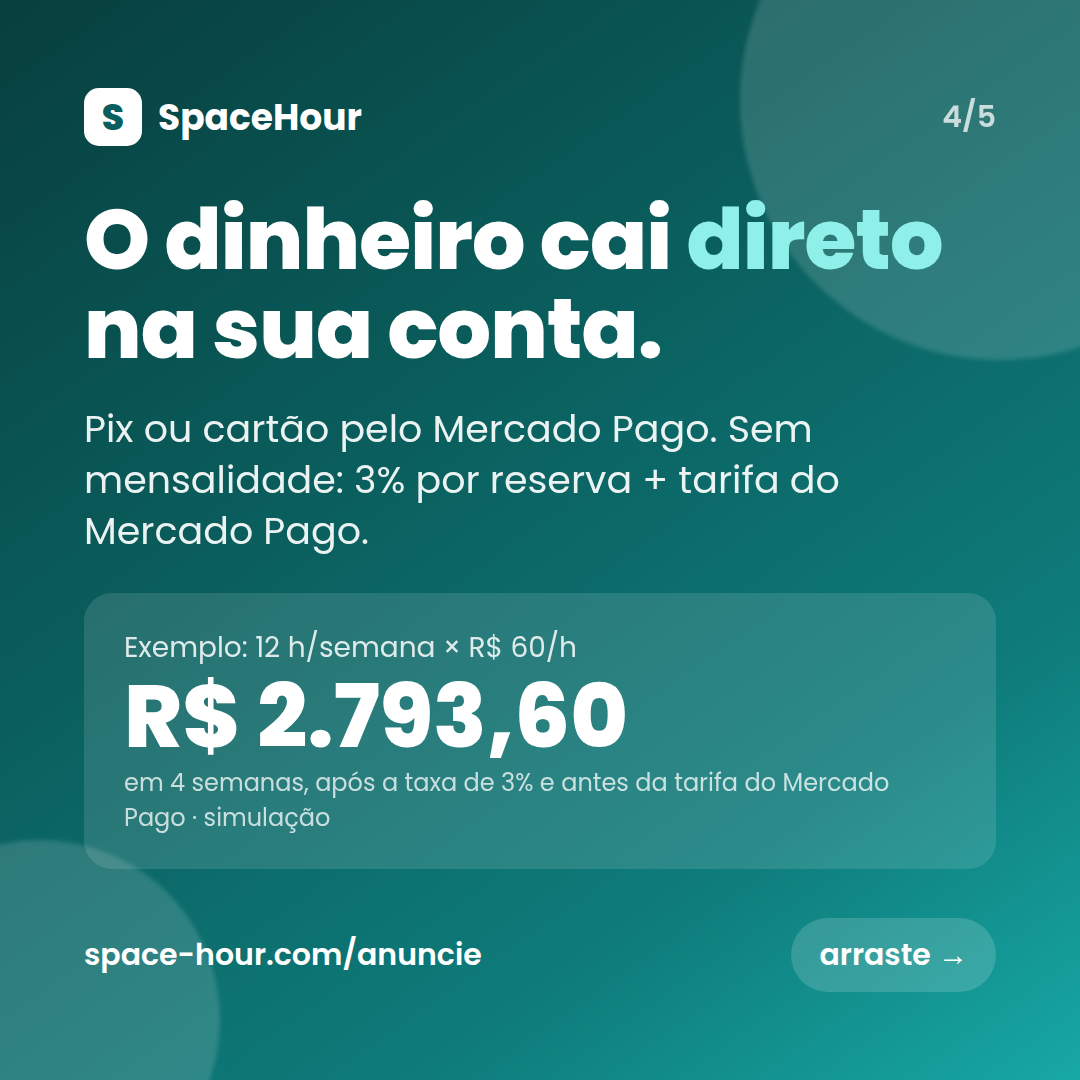
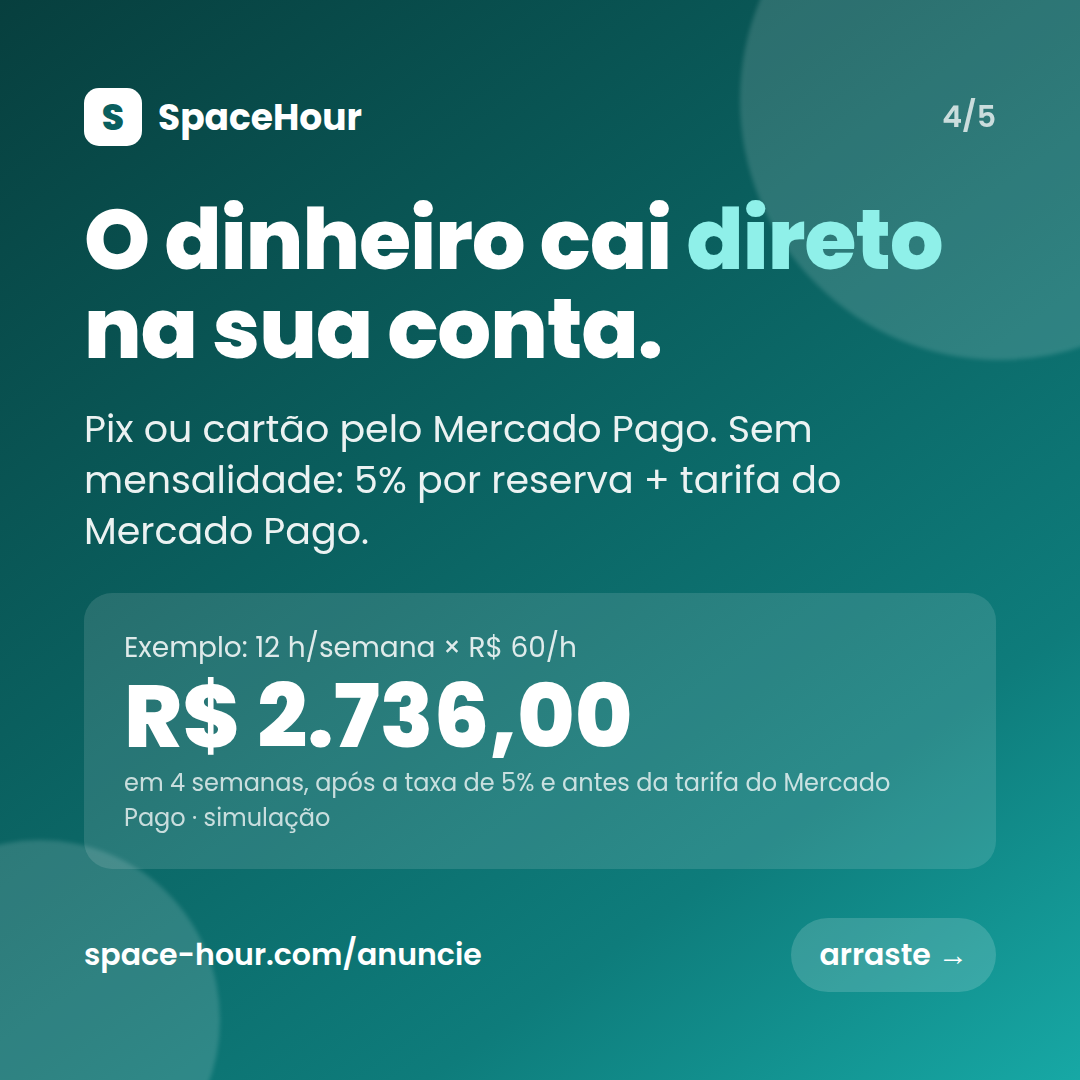
SpaceHour: comissão de 20% (15% locatário + 5% anfitrião)
- FEES: taxa de serviço do locatário 12% → 15%; do anfitrião 3% → 5%
- Termos, Pagamentos e Obrigações do Anfitrião nos 11 idiomas (inclui o
  exemplo numérico recalculado); RULES_VERSION 2026-09-27
- Textos do painel, card 4 e plano da campanha

Claude-Session: https://claude.ai/code/session_01W13E8YvgSDpfSXKLeaFiKX

Changed region(s): [[0.3361, 0.6417, 0.825, 0.7333], [0.3361, 0.4278, 0.7639, 0.4583]]

diff --git a/espacos/shared/rules.ts b/espacos/shared/rules.ts
@@ -7,7 +7,7 @@ import type {
 } from './types.js';
 import { getCountry } from './countries.js';
 
-export const RULES_VERSION = '2026-09-24';
+export const RULES_VERSION = '2026-09-27';
 
 // ───────────── Limites anti-locação de longo prazo ─────────────
 export const BOOKING_LIMITS = {
@@ -30,8 +30,8 @@ export const BOOKING_LIMITS = {
 
 // ───────────── Taxas da plataforma ─────────────
 export const FEES = {
-  guestServiceFeeRate: 0.12,  // taxa de serviço paga pelo locatário
-  hostServiceFeeRate: 0.03,   // taxa de serviço descontada do repasse ao anfitrião
+  guestServiceFeeRate: 0.15,  // taxa de serviço paga pelo locatário
+  hostServiceFeeRate: 0.05,   // taxa de serviço descontada do repasse ao anfitrião
   payoutDelayHours: 24,       // repasse ao anfitrião 24 h após o início da (primeira) ocorrência
   depositReleaseHours: 72,    // caução liberada 72 h após o check-out se não houver ocorrência
   maxCleaningFeeRate: 0.30,   // taxa de limpeza limitada a 30% do valor base

diff --git a/espacos/web/src/i18n/locales/hi.ts b/espacos/web/src/i18n/locales/hi.ts
@@ -416,7 +416,7 @@ const hi: Dict = {
   'host.inactive': 'रोका गया',
   'host.noListings': 'आपने अभी तक कोई जगह सूचीबद्ध नहीं की है।',
   'host.noEarnings': 'अभी तक कोई पूर्ण भुगतान नहीं हुआ है।',
-  'host.earningsHelp': 'भुगतान प्रत्येक बुकिंग शुरू होने के 24 घंटे बाद, 3% सेवा शुल्क काटकर जारी किया जाता है।',
+  'host.earningsHelp': 'भुगतान प्रत्येक बुकिंग शुरू होने के 24 घंटे बाद, 5% सेवा शुल्क काटकर जारी किया जाता है।',
   'host.loginFirst': 'अपनी जगह सूचीबद्ध करने के लिए लॉग इन करें या खाता बनाएँ।',
 
   // लिस्टिंग एडिटर

diff --git a/espacos/server/test/rules.test.ts b/espacos/server/test/rules.test.ts
@@ -19,14 +19,14 @@ test('fuso horário: São Paulo UTC-3', () => {
   assert.equal(zonedToUtc('2026-03-10', '09:00', tz).toISOString(), '2026-03-10T12:00:00.000Z');
 });
 
-test('preço: base + limpeza + taxa de serviço 12% + ISS 5% sobre a taxa', () => {
+test('preço: base + limpeza + taxa de serviço 15% + ISS 5% sobre a taxa', () => {
   const p = computePrice(listing, [{ date: d(10), start: '09:00', end: '11:00' }]);
   assert.equal(p.baseAmount, 200);
   assert.equal(p.cleaningFee, 20);
-  assert.equal(p.guestServiceFee, 26.4);
-  assert.equal(p.taxOnServiceFee, 1.32);
-  assert.equal(p.total, 247.72);
-  assert.equal(p.hostPayout, 213.4);
+  assert.equal(p.guestServiceFee, 33);
+  assert.equal(p.taxOnServiceFee, 1.65);
+  assert.equal(p.total, 254.65);
+  assert.equal(p.hostPayout, 209);
 });
 
 test('limites: sem pernoite, máx 12 h, granularidade 30 min', () => {

diff --git a/espacos/web/src/i18n/locales/ja.ts b/espacos/web/src/i18n/locales/ja.ts
@@ -416,7 +416,7 @@ const ja: Dict = {
   'host.inactive': '一時停止中',
   'host.noListings': 'まだスペースを掲載していません。',
   'host.noEarnings': 'まだ入金が完了した実績はありません。',
-  'host.earningsHelp': '入金は、各予約の開始から24時間後に、サービス手数料3%を差し引いた金額でお支払いされます。',
+  'host.earningsHelp': '入金は、各予約の開始から24時間後に、サービス手数料5%を差し引いた金額でお支払いされます。',
   'host.loginFirst': 'スペースを掲載するには、ログインまたはアカウントを作成してください。',
 
   // 掲載情報エディター

diff --git a/espacos/web/src/i18n/locales/ar.ts b/espacos/web/src/i18n/locales/ar.ts
@@ -416,7 +416,7 @@ const ar: Dict = {
   'host.inactive': 'متوقف مؤقتًا',
   'host.noListings': 'لم تُدرج أي مساحات بعد.',
   'host.noEarnings': 'لا توجد دفعات مكتملة بعد.',
-  'host.earningsHelp': 'تُصرف الدفعات بعد 24 ساعة من بدء كل حجز، بعد خصم رسوم الخدمة البالغة 3%.',
+  'host.earningsHelp': 'تُصرف الدفعات بعد 24 ساعة من بدء كل حجز، بعد خصم رسوم الخدمة البالغة 5%.',
   'host.loginFirst': 'سجّل الدخول أو أنشئ حسابًا لإدراج مساحتك.',
 
   // محرر الإعلان

diff --git a/espacos/web/src/i18n/locales/he.ts b/espacos/web/src/i18n/locales/he.ts
@@ -416,7 +416,7 @@ const he: Dict = {
   'host.inactive': 'מושהה',
   'host.noListings': 'עדיין לא פרסמתם חללים.',
   'host.noEarnings': 'אין עדיין תשלומים שהושלמו.',
-  'host.earningsHelp': 'התשלומים משוחררים 24 שעות לאחר תחילת כל הזמנה, בניכוי דמי שירות של 3%.',
+  'host.earningsHelp': 'התשלומים משוחררים 24 שעות לאחר תחילת כל הזמנה, בניכוי דמי שירות של 5%.',
   'host.loginFirst': 'התחברו או צרו חשבון כדי לפרסם את החלל שלכם.',
 
   // עורך מודעה

diff --git a/espacos/web/src/i18n/locales/fr.ts b/espacos/web/src/i18n/locales/fr.ts
@@ -416,7 +416,7 @@ const fr: Dict = {
   'host.inactive': 'En pause',
   'host.noListings': "Vous n'avez encore publié aucun espace.",
   'host.noEarnings': 'Aucun versement effectué pour le moment.',
-  'host.earningsHelp': "Les versements sont libérés 24 h après le début de chaque réservation, déduction faite des frais de service de 3 %.",
+  'host.earningsHelp': "Les versements sont libérés 24 h après le début de chaque réservation, déduction faite des frais de service de 5 %.",
   'host.loginFirst': 'Connectez-vous ou créez un compte pour publier votre espace.',
 
   // Éditeur d'annonce

diff --git a/espacos/web/src/i18n/locales/de.ts b/espacos/web/src/i18n/locales/de.ts
@@ -416,7 +416,7 @@ const de: Dict = {
   'host.inactive': 'Pausiert',
   'host.noListings': 'Sie haben noch keine Räume angeboten.',
   'host.noEarnings': 'Bisher keine abgeschlossenen Auszahlungen.',
-  'host.earningsHelp': 'Auszahlungen werden 24 Std. nach Beginn jeder Buchung freigegeben, abzüglich der 3%igen Servicegebühr.',
+  'host.earningsHelp': 'Auszahlungen werden 24 Std. nach Beginn jeder Buchung freigegeben, abzüglich der 5%igen Servicegebühr.',
   'host.loginFirst': 'Melden Sie sich an oder erstellen Sie ein Konto, um Ihren Raum anzubieten.',
 
   // Angebot bearbeiten

diff --git a/espacos/web/src/i18n/locales/it.ts b/espacos/web/src/i18n/locales/it.ts
@@ -416,7 +416,7 @@ const it: Dict = {
   'host.inactive': 'In pausa',
   'host.noListings': 'Non hai ancora pubblicato spazi.',
   'host.noEarnings': 'Nessun pagamento completato finora.',
-  'host.earningsHelp': "I pagamenti vengono rilasciati 24 h dopo l'inizio di ogni prenotazione, dedotta la commissione di servizio del 3%.",
+  'host.earningsHelp': "I pagamenti vengono rilasciati 24 h dopo l'inizio di ogni prenotazione, dedotta la commissione di servizio del 5%.",
   'host.loginFirst': 'Accedi o crea il tuo account per pubblicare il tuo spazio.',
 
   // Editor annuncio

diff --git a/espacos/web/src/i18n/locales/es.ts b/espacos/web/src/i18n/locales/es.ts
@@ -416,7 +416,7 @@ const es: Dict = {
   'host.inactive': 'Pausado',
   'host.noListings': 'Todavía no has publicado espacios.',
   'host.noEarnings': 'Aún no hay pagos completados.',
-  'host.earningsHelp': 'Los pagos se liberan 24 h después del inicio de cada reserva, descontando la tarifa de servicio del 3%.',
+  'host.earningsHelp': 'Los pagos se liberan 24 h después del inicio de cada reserva, descontando la tarifa de servicio del 5%.',
   'host.loginFirst': 'Inicia sesión o crea tu cuenta para publicar tu espacio.',
 
   // Editor de anuncio

diff --git a/espacos/web/src/i18n/locales/pt-BR.ts b/espacos/web/src/i18n/locales/pt-BR.ts
@@ -416,7 +416,7 @@ const ptBR = {
   'host.inactive': 'Pausado',
   'host.noListings': 'Você ainda não anunciou espaços.',
   'host.noEarnings': 'Sem repasses concluídos ainda.',
-  'host.earningsHelp': 'Os repasses são liberados 24 h após o início de cada reserva, descontada a taxa de serviço de 3%.',
+  'host.earningsHelp': 'Os repasses são liberados 24 h após o início de cada reserva, descontada a taxa de serviço de 5%.',
   'host.loginFirst': 'Entre ou crie sua conta para anunciar seu espaço.',
 
   // Editor de anúncio

diff --git a/espacos/web/src/i18n/locales/zh.ts b/espacos/web/src/i18n/locales/zh.ts
@@ -416,7 +416,7 @@ const zh: Dict = {
   'host.inactive': '已暂停',
   'host.noListings': '您还没有发布任何空间。',
   'host.noEarnings': '目前还没有已完成的收款。',
-  'host.earningsHelp': '收款将在每笔预订开始后 24 小时释放，并扣除 3% 的服务费。',
+  'host.earningsHelp': '收款将在每笔预订开始后 24 小时释放，并扣除 5% 的服务费。',
   'host.loginFirst': '请登录或创建账户以发布您的空间。',
 
   // 房源编辑器
